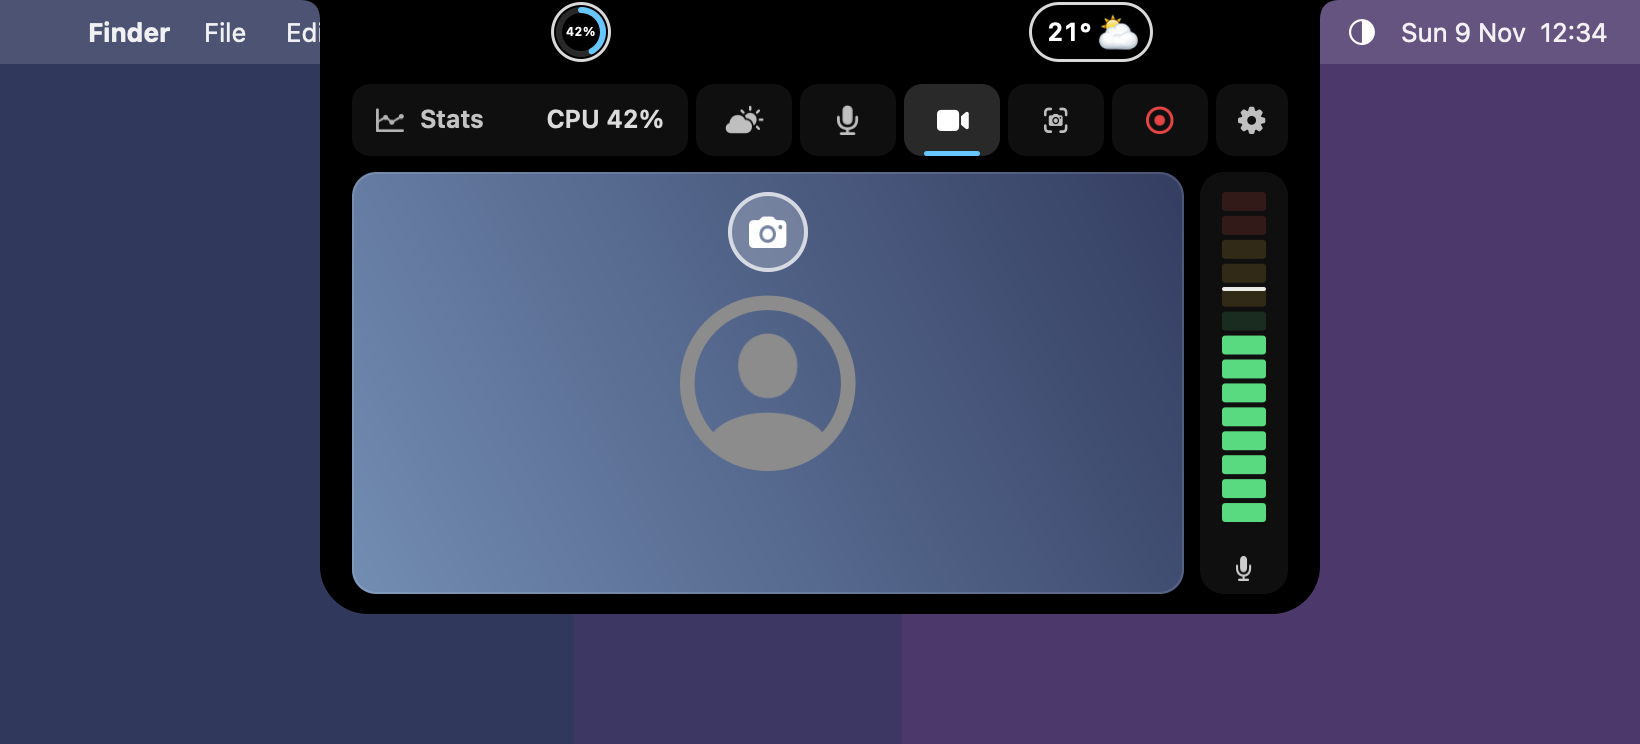
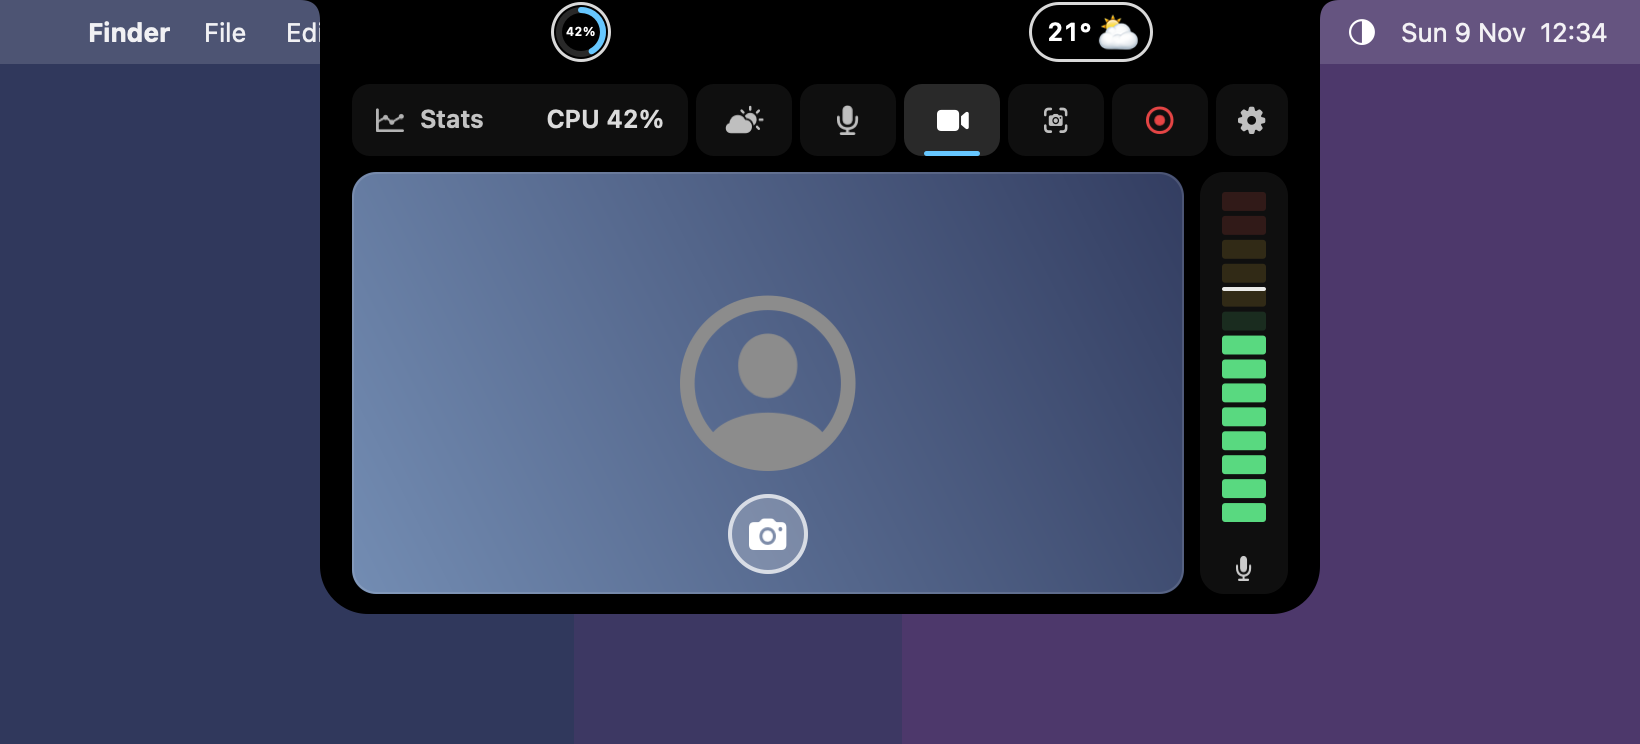
Add Face Transform screenshots; keep the account name out of them
- Tools/render-screenshots.swift renders the Camera tab with input and
  output feeds, the Camera & Face Swap settings page and the Enroll Face
  window, with stand-in feeds and placeholder names.
- FaceEnrollView takes the initial "Attested by" value as a parameter so
  the screenshot tool doesn't capture the Mac account's name.
- Camera tab screenshot: shutter drawn at the bottom, as in the app.
- README and docs/FACE_TRANSFORM.md show the new images; fixed a relative
  link that would be broken on GitHub and a stale settings path.

Changed region(s): [[0.4354, 0.6492, 0.4976, 0.7728], [0.4354, 0.2473, 0.4976, 0.371]]

diff --git a/Tools/render-screenshots.swift b/Tools/render-screenshots.swift
@@ -8,6 +8,7 @@
 //   ./shots "$OLDPWD/Assets/screenshots"
 import AppKit
 import ImageIO
+import SwiftUI
 import UniformTypeIdentifiers
 
 // Offscreen renders of NotchOrbit's overlay "faces" for the README. The views are the
@@ -95,12 +96,59 @@ func render(_ view: NSView, in ctx: CGContext, parentFlipped: Bool) {
         PanelDrawing.drawSymbol("person.crop.circle", in: b.insetBy(dx: 0, dy: b.height * 0.1), pointSize: b.height * 0.42, weight: .regular,
                                 color: NSColor.white.withAlphaComponent(0.55))
         let side = ShutterButton.size
-        let shutter = CGRect(x: b.midX - side / 2, y: b.maxY - 10 - side, width: side, height: side)
+        let shutter = CGRect(x: b.midX - side / 2, y: 10, width: side, height: side)   // the view is y-up
         ctx.setFillColor(CGColor(gray: 1, alpha: 0.22)); ctx.fillEllipse(in: shutter)
         ctx.setStrokeColor(CGColor(gray: 1, alpha: 0.7)); ctx.setLineWidth(2); ctx.strokeEllipse(in: shutter.insetBy(dx: 1, dy: 1))
         PanelDrawing.drawSymbol("camera.fill", in: shutter, pointSize: 15, color: .white)
         ctx.setStrokeColor(CGColor(gray: 1, alpha: 0.12)); ctx.setLineWidth(1)
         ctx.addPath(CGPath(roundedRect: b.insetBy(dx: 0.5, dy: 0.5), cornerWidth: r, cornerHeight: r, transform: nil)); ctx.strokePath()
+        if let caption = cam.caption { feedCaption(caption, in: b) }
+        recurse = false
+    case let out as FaceOutputView:
+        // Stand-in for a live transformed feed: a different "person", the badge the
+        // server burns into every transformed frame, and the caption.
+        let b = out.bounds, r = out.layer?.cornerRadius ?? 12
+        ctx.addPath(CGPath(roundedRect: b, cornerWidth: r, cornerHeight: r, transform: nil)); ctx.clip()
+        let g = CGGradient(colorsSpace: CGColorSpace(name: CGColorSpace.sRGB)!,
+                           colors: [CGColor(srgbRed: 0.62, green: 0.48, blue: 0.66, alpha: 1), CGColor(srgbRed: 0.28, green: 0.20, blue: 0.40, alpha: 1)] as CFArray,
+                           locations: [0, 1])!
+        ctx.drawLinearGradient(g, start: CGPoint(x: 0, y: 0), end: CGPoint(x: b.width, y: b.height), options: [])
+        PanelDrawing.drawSymbol("person.crop.circle.fill", in: b.insetBy(dx: 0, dy: b.height * 0.1), pointSize: b.height * 0.42, weight: .regular,
+                                color: NSColor.white.withAlphaComponent(0.7))
+        let badge = PanelDrawing.text("AI TRANSFORMED", size: 8.5, weight: .bold, color: .white)
+        let badgeRect = CGRect(x: 8, y: 8, width: badge.size().width + 10, height: badge.size().height + 5)
+        ctx.setFillColor(CGColor(srgbRed: 0.1, green: 0.1, blue: 0.75, alpha: 0.9)); ctx.fill(badgeRect)
+        badge.draw(at: CGPoint(x: badgeRect.minX + 5, y: badgeRect.minY + 2.5))
+        ctx.setStrokeColor(CGColor(gray: 1, alpha: 0.12)); ctx.setLineWidth(1)
+        ctx.addPath(CGPath(roundedRect: b.insetBy(dx: 0.5, dy: 0.5), cornerWidth: r, cornerHeight: r, transform: nil)); ctx.strokePath()
+        feedCaption("OUTPUT", in: b)
+        recurse = false
+    case let bar as FaceControlBar:
+        // The control row as it looks during a session (the real one needs a live server).
+        let h = min(bar.bounds.height, PanelPillButton.height), y = (bar.bounds.height - h) / 2
+        var x: CGFloat = 0
+        let pills: [(String, String, NSColor)] = [
+            ("stop.fill", "Stop", NSColor(srgbRed: 0.85, green: 0.18, blue: 0.18, alpha: 1)),
+            ("person.crop.circle", "Alex ▾", NSColor.white.withAlphaComponent(0.12)),
+            ("person.crop.circle.badge.plus", "Enroll Face", NSColor.white.withAlphaComponent(0.12)),
+            ("ellipsis", "", NSColor.white.withAlphaComponent(0.12)),
+        ]
+        for (symbol, title, fill) in pills {
+            let label = PanelDrawing.text(title, size: 11, weight: .semibold, color: .white)
+            let icon: CGFloat = 16
+            let w = title.isEmpty ? 34 : label.size().width + icon + 24
+            let rect = CGRect(x: x, y: y, width: w, height: h)
+            fill.setFill(); NSBezierPath(roundedRect: rect, xRadius: 9, yRadius: 9).fill()
+            if title.isEmpty {
+                PanelDrawing.drawSymbol(symbol, in: rect, pointSize: 11, color: .white)
+            } else {
+                PanelDrawing.drawSymbol(symbol, in: CGRect(x: rect.minX + 10, y: rect.minY, width: icon, height: h), pointSize: 11, color: .white)
+                label.draw(at: CGPoint(x: rect.minX + 10 + icon + 4, y: rect.midY - label.size().height / 2))
+            }
+            x += w + 6
+        }
+        let status = PanelDrawing.text("11 fps · transforming", size: 10, weight: .medium, color: NSColor.white.withAlphaComponent(0.6))
+        status.draw(at: CGPoint(x: bar.bounds.maxX - status.size().width, y: bar.bounds.midY - status.size().height / 2))
         recurse = false
     case let meter as MicLevelView:
         let b = meter.bounds
@@ -152,6 +200,38 @@ func render(_ view: NSView, in ctx: CGContext, parentFlipped: Bool) {
     if recurse { for sub in view.subviews { render(sub, in: ctx, parentFlipped: view.isFlipped) } }
     NSGraphicsContext.restoreGraphicsState()
     ctx.restoreGState()
+}
+
+/// The "INPUT" / "OUTPUT" pill at the top of a feed (drawn in the feed's own y-up space).
+func feedCaption(_ text: String, in b: CGRect) {
+    let label = PanelDrawing.text(text, size: 8.5, weight: .bold, color: NSColor.white.withAlphaComponent(0.9))
+    let size = CGSize(width: label.size().width + 12, height: 14)
+    let rect = CGRect(x: b.midX - size.width / 2, y: b.maxY - size.height - 8, width: size.width, height: size.height)
+    NSColor.black.withAlphaComponent(0.55).setFill()
+    NSBezierPath(roundedRect: rect, xRadius: 7, yRadius: 7).fill()
+    label.draw(at: CGPoint(x: rect.minX + 6, y: rect.midY - label.size().height / 2))
+}
+
+/// A SwiftUI window's content, rendered offscreen at `size` (dark appearance).
+func windowShot<V: View>(_ name: String, _ view: V, size: CGSize) {
+    let hosting = NSHostingView(rootView: view.environmentObject(SettingsStore.shared).preferredColorScheme(.dark))
+    hosting.frame = CGRect(origin: .zero, size: size)
+    // The window's own background isn't part of an offscreen capture, so paint one.
+    let backdrop = NSView(frame: hosting.frame)
+    backdrop.wantsLayer = true
+    backdrop.layer?.backgroundColor = NSColor(white: 0.13, alpha: 1).cgColor
+    backdrop.addSubview(hosting)
+    let window = NSWindow(contentRect: hosting.frame, styleMask: [.borderless], backing: .buffered, defer: false)
+    window.appearance = NSAppearance(named: .darkAqua)
+    window.contentView = backdrop
+    backdrop.layoutSubtreeIfNeeded()
+    RunLoop.main.run(until: Date().addingTimeInterval(1.5))   // let SwiftUI settle (and the server row resolve)
+    guard let rep = backdrop.bitmapImageRepForCachingDisplay(in: backdrop.bounds) else { return }
+    backdrop.cacheDisplay(in: backdrop.bounds, to: rep)
+    let url = outDir.appendingPathComponent(name + ".png")
+    try? rep.representation(using: .png, properties: [:])?.write(to: url)
+    let bytes = (try? FileManager.default.attributesOfItem(atPath: url.path)[.size] as? Int) ?? 0
+    print("wrote \(name).png \(bytes / 1024) KB")
 }
 
 /// Mock desktop: wallpaper, menu bar with a few items; `notchHeight` 0 means no hardware notch.
@@ -304,4 +384,19 @@ notchScene("panel-stats", panel, height: 300, tab: "stats", cpu: 58)
 notchScene("panel-weather", panel, height: 360, tab: "weather")
 notchScene("panel-mic", panel, height: 372, tab: "mic")
 notchScene("panel-camera", panel, height: 372, tab: "camera")
+
+// Face Transform: the Camera tab with both feeds, the Settings page and the enrolment
+// window. No real face or name is shown: the feeds are stand-ins, and the Settings page
+// only reports whether a face server happens to be running on this Mac.
+var faced = panel
+faced.stats.face.enabled = true
+faced.stats.face.port = 9
+faced.stats.face.projectPath = "/Users/you/deep-facial"
+faced.stats.face.identityID = "0000000000000000"
+faced.stats.face.identityName = "Alex"
+SettingsStore.shared.settings = faced
+notchScene("panel-camera-face", faced, height: 408, tab: "camera")
+SettingsStore.shared.settings.stats.face.port = 8787
+windowShot("settings-face", SettingsPageContainer(page: .face) { FacePage() }, size: CGSize(width: 640, height: 880))
+windowShot("enroll-face", FaceEnrollView(attestedBy: "Your Name") {}, size: CGSize(width: 460, height: 400))
 print("done")

diff --git a/Sources/NotchOrbit/FacePanelViews.swift b/Sources/NotchOrbit/FacePanelViews.swift
@@ -678,11 +678,17 @@ struct FaceEnrollView: View {
     }
 
     @State private var name = ""
-    @State private var attestedBy = NSFullUserName()
+    @State private var attestedBy: String
     @State private var ownerConsent = false
     @State private var performerConsent = false
     @State private var files: [URL] = []
     @State private var phase: Phase = .editing
+
+    /// `attestedBy` starts as the account's full name; the person can change it.
+    init(attestedBy: String = NSFullUserName(), close: @escaping () -> Void) {
+        self.close = close
+        _attestedBy = State(initialValue: attestedBy)
+    }
 
     private static let fileTypes = ["jpg", "jpeg", "png", "webp", "bmp", "mp4", "mov", "m4v", "webm", "mkv", "avi"]
 

diff --git a/CHANGELOG.md b/CHANGELOG.md
@@ -2,7 +2,7 @@
 
 ## 2.0.0 — 2026-11-13
 
-- Face Transform (Settings › Face Transform, off by default): the Camera tab can show
+- Face Transform (Settings › Camera & Face Swap, off by default): the Camera tab can show
   you as an enrolled identity, using the local deep-facial server. Input and output
   feeds side by side with a control row (Transform, face picker, Enroll Face, more),
   per-session consent card, native enrolment window with the consent attestations, live
@@ -15,6 +15,8 @@
   tooltip), as well as in Settings.
 - `build.sh` uses an installed Xcode when the Command Line Tools are selected (SwiftUI's
   macros need Xcode's compiler plugin).
+- Screenshots of Face Transform (Camera tab, Settings page, Enroll Face window) rendered
+  by `Tools/render-screenshots.swift` with stand-in feeds.
 - Open-source release: MIT licence, restructured README, documentation under `docs/`,
   contributing and security notes, and a GitHub Actions build.
 - Settings: one page per feature. The Mic tab's options moved from System Stats to a

diff --git a/README.md b/README.md
@@ -180,6 +180,14 @@ Every face the notch can wear, as the app draws it on a 14" MacBook Pro.
 |---|---|
 | ![Mic tab](Assets/screenshots/panel-mic.png) | ![Camera tab](Assets/screenshots/panel-camera.png) |
 
+**Face Transform** · the Camera tab with input and output feeds and the control row, the Settings page, and the Enroll Face window
+
+![Camera tab with Face Transform](Assets/screenshots/panel-camera-face.png)
+
+| Settings › Camera & Face Swap | Enroll Face |
+|---|---|
+| ![Camera & Face Swap settings](Assets/screenshots/settings-face.png) | ![Enroll Face window](Assets/screenshots/enroll-face.png) |
+
 The images are rendered by the app's own view code (`Tools/render-screenshots.swift`) on a mock
 desktop, so they stay in step with the source; the particle animations and the live camera
 feed are stand-ins.

diff --git a/docs/FACE_TRANSFORM.md b/docs/FACE_TRANSFORM.md
@@ -60,6 +60,8 @@ System Stats mode must be on, because the Camera tab lives in the expanded panel
 
 ## Using it
 
+![Camera tab with Face Transform](../Assets/screenshots/panel-camera-face.png)
+
 Open the panel and choose the Camera tab. With the feature on it shows two feeds,
 **INPUT** (your camera) and **OUTPUT** (the transformed feed), and a row of controls
 below them.
@@ -77,6 +79,8 @@ When no face is found, or it is too small or uncertain, the output is the untouc
 camera frame with no badge, and the status says "no face".
 
 ### Enrolling a face
+
+<img src="../Assets/screenshots/enroll-face.png" alt="Enroll Face window" width="460">
 
 Enroll Face asks for a name, photos or short clips of one person, who is attesting, and
 two statements: that the person in the photos gave permission, and that everyone who

diff --git a/docs/FEATURES.md b/docs/FEATURES.md
@@ -62,7 +62,7 @@ Settings…, one sidebar page per feature.
   hourly strip with a temperature curve.
 - **Face Transform** (off by default; Settings › Camera & Face Swap) – the Camera tab can show
   you as an enrolled, consenting identity. NotchOrbit is a client of the separate
-  [deep-facial](../../deep-facial) project: a Python server on this Mac (127.0.0.1 only)
+  deep-facial project (see [FACE_TRANSFORM.md](FACE_TRANSFORM.md)): a Python server on this Mac (127.0.0.1 only)
   that detects, swaps and composites the face and burns an **AI TRANSFORMED** badge into
   every transformed frame. Point Settings at the project folder and NotchOrbit starts the
   server when a session needs it (a server already running on the port is used as is) and
